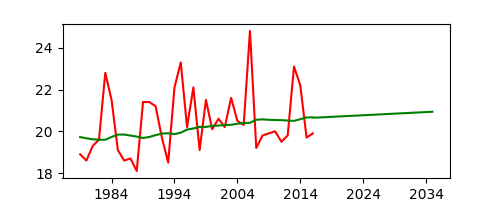
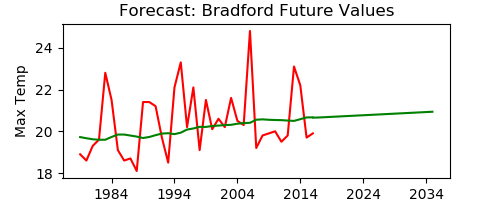
Past prediction implemented and single month/season annually added, predictions require improvement

Changed region(s): [[0.24, 0.0, 0.81, 0.09], [0.03, 0.33, 0.06, 0.51], [0.03, 0.54, 0.06, 0.69]]

diff --git a/src/root/nested/predictor.py b/src/root/nested/predictor.py
@@ -8,7 +8,7 @@ Class follows example code found at https://www.analyticsvidhya.com/blog/2016/02
 '''
 
 import pandas as pd
-import numpy as np
+#import numpy as np
 import os
 import itertools
 import matplotlib
@@ -51,36 +51,42 @@ class Predictor:
                 bestModel = x
         return bestModel
             
-    def predict(self, ts, p, d, q):
+    def predict(self, ts, p, d, q, predict_type="Future Values", predict_start=2016):
         X = ts.values
         size = int(len(X) * 0.66)
         train, test = X[0:size], X[size:len(X)]
-        history = [x for x in train]
+        history = [float(x) for x in train]
         predictions = list()
         model = None
         model_fit = None
         #model existing data
         for t in range(len(test)):
-            model = ARIMA(history, order=(0,1,1))
+            model = ARIMA(history, order=(p,d,q))
             model_fit = model.fit(disp=0)
             output = model_fit.forecast()
             yhat = output[0]
             predictions.append(yhat)
-            obs = test[t]
+            obs = float(test[t])
             history.append(obs)
         #model future data
         for t in range(20):
-            model = ARIMA(history, order=(0,1,1))
+            model = ARIMA(history, order=(p,d,q))
             model_fit = model.fit(disp=0)
             output = model_fit.forecast()
             yhat = output[0]
             predictions.append(yhat)
             history.append(yhat)
-        preds = [np.nan for x in range(len(ts) - (len(predictions)-20))]
+        preds = [float("nan") for x in range(len(ts) - (len(predictions)-20))]
         forecast = preds + [x[0] for x in predictions]
         df = pd.DataFrame({"orig": ts.iloc[:,0], "forecast": forecast[:-20]})
-        data = [pd.to_datetime("01-01-"+str(2016+x)) for x in range(20)]
-        orig = [np.nan for x in range(20)]
+        data = []
+        if predict_type == "Future Values":
+            data = [pd.to_datetime("01-01-"+str(2016+x)) for x in range(20)]
+        else:
+            data = [pd.to_datetime("01-01-"+str(predict_start-x)) for x in range(20)]
+            print "forecast years: ", data
+            
+        orig = [float("nan") for x in range(20)]
         futures = forecast[-20:]
         df2 = pd.DataFrame({"orig": orig, "forecast": futures, "ind": data})
         df2.set_index("ind", inplace=True)
@@ -91,13 +97,8 @@ class Predictor:
             if not math.isnan(forecast[x]):
                 index = x
                 break
-            
-        # plot
-        fig = plt.figure(figsize=(5, 2))
-        plt.plot(df[['orig']].iloc[index:], color='red')
-        plt.plot(df[['forecast']].iloc[index:], color='green')
-        plt.savefig(self.path + "/imgs/newModel.png")
-        plt.close(fig)
+        
+        return (df[['orig']].iloc[index:], df[['forecast']].iloc[index:])    
         
     def predict_future_values(self):
         pass
@@ -112,9 +113,30 @@ class Predictor:
         times, ts = self.dao.retrieve_data(params)
         ts = pd.DataFrame({"ts": ts, "times": times})
         ts.set_index("times", inplace= True)
-        #(p, d, q) = self.getBestFitModel(ts)
-        #self.predict(ts, p, d, q)
-        self.predict(ts, 0, 1, 1)
+        try:
+            ts = ts[ts['ts'] != "nan"]
+        except:
+            pass
+        if params["prediction_type"] == "Past Values":
+            ts = ts.iloc[::-1]
+        (p, d, q) = self.getBestFitModel(ts.iloc[-60:])
+        (current, forecast) = (None, None)
+        if params['prediction_type'] == "Past Values":
+            start = self.dao.getAvailableYearsForRegion(params['region'], params['data_type'])
+            print "Start year: ", start[0]
+            (current, forecast) = self.predict(ts, p, d, q, predict_type="Past Values",predict_start=int(start[0]))
+        else:
+            (current, forecast) = self.predict(ts, p, d, q)
+        print forecast
+        print p,d,q
+        # plot
+        fig = plt.figure(figsize=(5, 2))
+        plt.plot(current, color='red')
+        plt.plot(forecast, color='green')
+        plt.ylabel(params['data_type'])
+        plt.title("Forecast: " + params['region'] + " " + params['prediction_type'])
+        plt.savefig(self.path + "/imgs/newModel.png")
+        plt.close(fig)
         
     def __init__(self, dao):
         self.dao = dao 

diff --git a/src/root/nested/dao.py b/src/root/nested/dao.py
@@ -5,7 +5,7 @@ Created on 9 Jan 2018
 '''
 
 import pandas as pd
-import numpy as np
+#import numpy as np
 import matplotlib
 matplotlib.use("macosx")
 import os 
@@ -118,9 +118,9 @@ class Dao:
         values = [x for x in table.groupby(groupingColumns)[value].apply(list)]
         months = [x[0] for x in table.groupby(groupingColumns)['mm'].apply(list)]
         if operation == "avg":
-            values = [sum(x) / len(x) if x != [] else np.NaN for x in values]
+            values = [sum(x) / len(x) if x != [] else "nan" for x in values]
         else:
-            values = [operation(x) if x != [] else np.NaN for x in values ]
+            values = [operation(x) if x != [] else "nan" for x in values ]
         df = pd.DataFrame({'yyyy': years, 'mm': months, value: values})
         df = self.setDFIndex(df)
         return df
@@ -142,11 +142,10 @@ class Dao:
     
     def total_values_by_year(self, valueTable, value, operation):  
         df = valueTable.groupby('yyyy')[value].apply(list)
-        print df.tolist()
         summedValues = []
         for x in df.tolist():
             if self.remove_NaNs(x) == []:
-                summedValues.append(np.NaN)
+                summedValues.append("nan")
             elif operation == "avg":
                 summedValues.append(sum(x) / len(x))
             else:
@@ -196,7 +195,6 @@ class Dao:
         if season == "Winter":
             # Winter crosses over into the next year so bring Jan and Feb values into same year as Dec
             df['yyyy'] = df.apply(lambda row: str(int(row['yyyy']) - 1) if int(row['mm']) != 12 else str(int(row['yyyy'])), axis=1)  
-        print df
         df = self.total_values_by_year(df, value, operation)
         df['mm'] = pd.Series(months[0], index=df.index)
         df['time'] = pd.to_datetime(df.apply(lambda row: str(int(float(row.yyyy))) + "-" + str(int(row.mm)), axis=1))
@@ -217,7 +215,7 @@ class Dao:
             return self.get_combined_table_for_country(region, value, operation)
         else:
             df = self._stations.get(region)[['yyyy', 'mm', value]]
-            df[value] = df[value].apply(lambda x: float(re.sub('[^0-9\.-]', '', str(x))) if x != "---"  else np.NaN)
+            df[value] = df[value].apply(lambda x: float(re.sub('[^0-9\.-]', '', str(x))) if x != "---"  else "nan")
             return df
         
     def group_data_by_time_step(self, df, timeStep, value, operation, monthRange=None):
@@ -259,7 +257,6 @@ class Dao:
                                                graphDetails.get(data_type).get("value"),
                                                graphDetails.get(data_type).get("operation"), 
                                                details.get("month_range"))
-            print df
             return ([pd.to_datetime(str(x)) for x in df[df.columns[0]]], df[graphDetails.get(data_type).get("value")]) # NaN code from https://stackoverflow.com/questions/34794067/how-to-set-a-cell-to-nan-in-a-pandas-dataframe
         else: # Avg temp
             maxi = self.group_data_by_time_step(self.get_table(regionName, "tmax", max)
@@ -275,7 +272,7 @@ class Dao:
                                                min, 
                                                details.get("month_range"))
             avgs = self.average_two_columns(maxi['tmax'].tolist(), mini['tmin'].tolist())
-            return ([pd.to_datetime(str(x)) for x in maxi[maxi.columns[0]]], [float(x) if x != "---" else np.NaN for x in avgs]) # NaN code from https://stackoverflow.com/questions/34794067/how-to-set-a-cell-to-nan-in-a-pandas-dataframe
+            return ([pd.to_datetime(str(x)) for x in maxi[maxi.columns[0]]], [float(x) if x != "---" else "nan" for x in avgs]) # NaN code from https://stackoverflow.com/questions/34794067/how-to-set-a-cell-to-nan-in-a-pandas-dataframe
             
     def create_graph(self, details, width, height):
         data_type = details.get("data_type")
